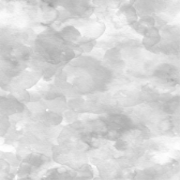
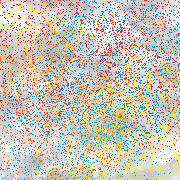
細かいところ
URL関係頭がごちゃつく

Changed region(s): [[0.0, 0.0, 1.0, 1.0], [0.9722, 0.0, 1.0, 0.0278], [0.0278, 0.9722, 0.0556, 1.0]]

diff --git a/app/ondyst/resource/style/home.css b/app/ondyst/resource/style/home.css
@@ -1,0 +1,53 @@
+main {
+	display: flex;
+	justify-content: center;
+	flex-wrap: wrap;
+	gap: 0.6rlh 1rem;
+}
+
+#timeline {
+	> .tabs {
+		display: flex;
+		padding: 0 0.2rem;
+		gap: 0.5rem;
+		overflow-x: auto;
+		scrollbar-width: none;
+		border: 1px var(--border-color);
+		border-style: none none solid;
+
+		> .tab {
+			padding: 0 0.2rem;
+			border: 1px var(--border-color);
+			border-style: none solid;
+
+			&:has(input:checked) {
+				color: var(--accent-color);
+			}
+
+			> input {
+				display: none;
+			}
+		}
+	}
+}
+
+#chat_list {
+	margin: 0.4rlh 0;
+}
+
+#log_list {
+	display: flex;
+	flex-direction: column;
+	gap: 0.4rlh;
+
+	> .log {
+		border-bottom: 1px solid var(--border-color);
+		time {
+			display: block;
+			margin-top: -4px;
+			color: var(--border-color);
+			font-size: 0.8rem;
+			text-align: end;
+		}
+	}
+}

diff --git a/app/portal/resource/index.html b/app/portal/resource/index.html
@@ -29,7 +29,7 @@
 <article>
 	<h2>制作した・関わったタイトル</h2>
 	<section id="ondyst">
-		<h3><a target="_blank" href="http://ondyst.localhost:8080">one day's' talk</a><span>by <a target="_blank" href="https://x.com/untroche_ar">untroche</a></span></h3>
+		<h3><a target="_blank" href="http://ondyst.untroche.com">one day's' talk</a><span>by <a target="_blank" href="https://x.com/untroche_ar">untroche</a></span></h3>
 		<dl class="period-list line">
 			<dt>登録開始:</dt>
 			<dd><time class="regist-start">2026-09-19</time></dd>

diff --git a/app/ondyst/resource/style/timeline.css b/app/ondyst/resource/style/timeline.css
@@ -1,24 +1,3 @@
-#timeline {
-	flex-grow: 1;
-	display: flex;
-	max-height: stretch;
-	padding: 0.4rlh;
-	flex-direction: column;
-	align-items: center;
-	gap: 0.5rlh;
-	overflow: hidden auto;
-	scrollbar-width: thin;
-	scrollbar-gutter: stable;
-
-	> .pagination {
-		display: flex;
-		margin-top: auto;
-		justify-content: center;
-		align-items: center;
-		gap: 1rem;
-	}
-}
-
 #chat_list,
 #post {
 	display: flex;

diff --git a/app/ondyst/resource/ts/entry.ts b/app/ondyst/resource/ts/entry.ts
@@ -2,7 +2,8 @@ import { Ajax } from '/common/script/ajax.js';
 import { sleep } from '/common/script/utils.js';
 import { toast } from './toast.js';
 
-const portal = 'http://localhost:8080';
+const portal = 'http://localhost';
+// const portal = 'http://untroche.com';
 
 const login = document.getElementById('login') as HTMLFormElement
 const register = document.getElementById('register') as HTMLFormElement

diff --git a/app/ondyst/resource/style/location.css b/app/ondyst/resource/style/location.css
@@ -12,3 +12,24 @@ main {
 		top: 0;
 	}
 }
+
+#timeline {
+	flex-grow: 1;
+	display: flex;
+	max-height: stretch;
+	padding: 0.4rlh;
+	flex-direction: column;
+	align-items: center;
+	gap: 0.5rlh;
+	overflow: hidden auto;
+	scrollbar-width: thin;
+	scrollbar-gutter: stable;
+
+	> .pagination {
+		display: flex;
+		margin-top: auto;
+		justify-content: center;
+		align-items: center;
+		gap: 1rem;
+	}
+}

diff --git a/app/ondyst/resource/actor.html b/app/ondyst/resource/actor.html
@@ -17,7 +17,7 @@
 	{% endif %}
 	{% for section in profile %}
 	<section>
-		<h3>{{section.title|default(value='Profile')}}</h3>
+		<h3>{{section.title|default(value='Profile')|html|safe}}</h3>
 		<p>{{section.content|html(link=true)|safe}}</p>
 	</section>
 	{% endfor %}

diff --git a/app/ondyst/src/util/mod.rs b/app/ondyst/src/util/mod.rs
@@ -10,7 +10,8 @@ pub use page::{ActorData, Page};
 pub use state::State;
 pub use webhook::Webhook;
 
-pub const APP_URL: &str = "http://localhost:8080";
+pub const APP_URL: &str = "http://ondyst.localhost";
+// pub const APP_URL: &str = "http://ondyst.untroche.com";
 
 pub type Identity = common::Identity<i64>;
 pub type StateHandle = common::StateHandle<State>;
